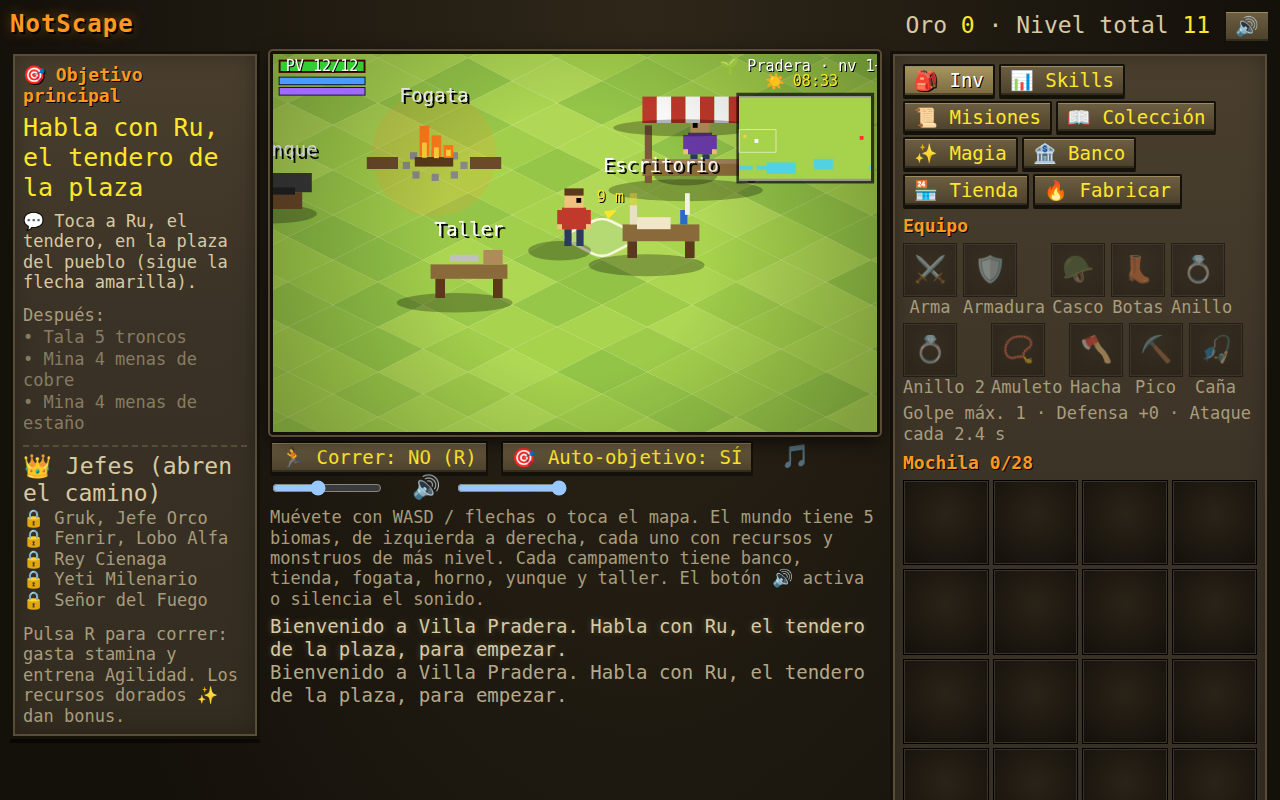
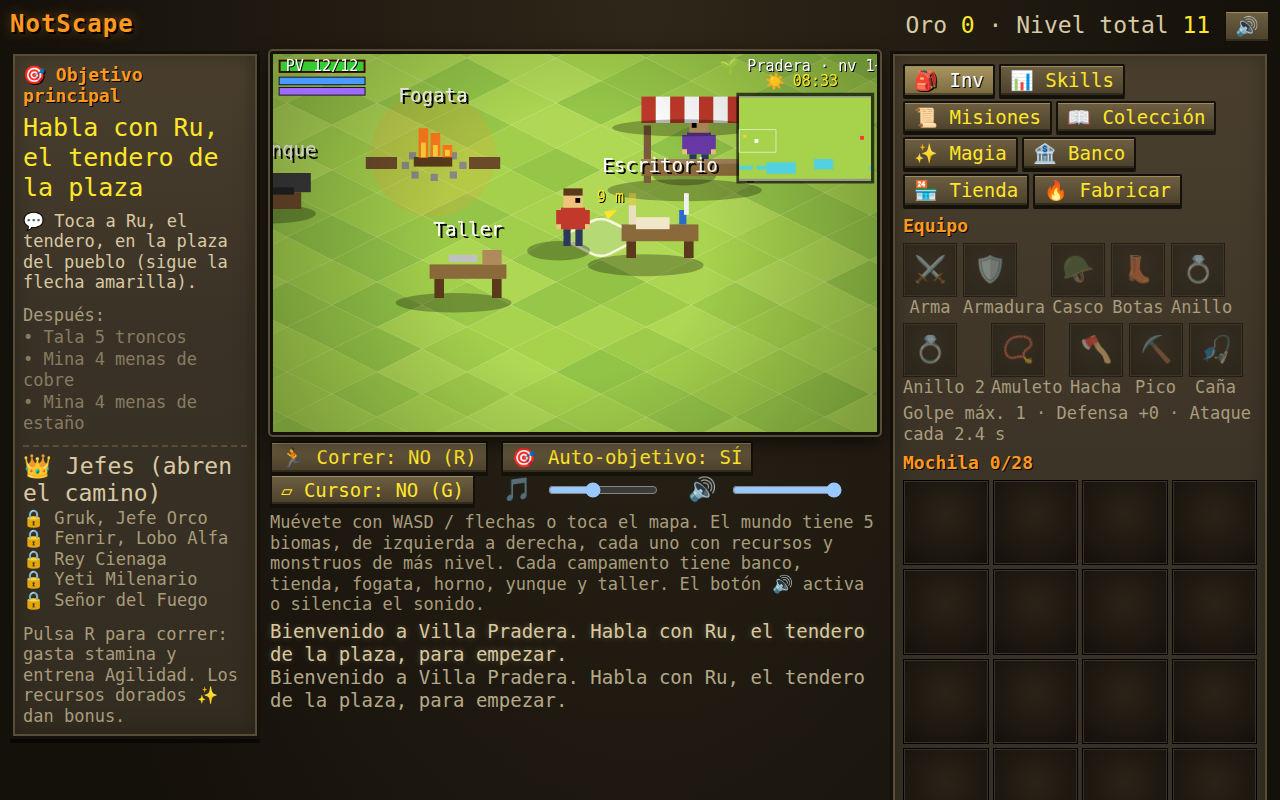
UPDATE 0.3b cambio a cámara isometrica

diff --git a/src/game.js b/src/game.js
@@ -494,7 +494,7 @@ const cv=$('#c');let ctx=cv.getContext('2d');const W=640,H=400; // W,H = unidade
 const GR=null,RD=null,WT=null,VG=null,SX=null,CH=null,SP=null; // TEMPORAL: módulos cenitales borrados; las ramas antiguas de sprites siguen vivas hasta F3–F5 (ver AGENTS.md)
 const lc=document.createElement('canvas');lc.width=W;lc.height=H;const lx=lc.getContext('2d'),DAYLEN=360,dayP=t=>(t/DAYLEN+.33)%1,sunS=t=>Math.sin(2*Math.PI*(dayP(t)-.25));
 let SHD={dx:0,dy:2,a:.26};
-function Sd(x,y,w,h){if(BAKE){BAKE.sh.push([x-BAKE.ax,y-BAKE.ay,w,h]);return}const q=SHD;if(q.a<.02)return;ctx.save();ctx.globalAlpha=q.a;ctx.fillStyle='#000';ctx.beginPath();ctx.ellipse(Math.round(x+w/2+q.dx/2),Math.round(y+h/2+q.dy/2),w/2+Math.abs(q.dx)/2,h/2+Math.abs(q.dy)/2+1,0,0,7);ctx.fill();ctx.restore()}
+function Sd(x,y,w,h){if(SIL)return;if(BAKE){BAKE.sh.push([x-BAKE.ax,y-BAKE.ay,w,h]);return}const q=SHD;if(q.a<.02)return;ctx.save();ctx.globalAlpha=q.a;ctx.fillStyle='#000';ctx.beginPath();ctx.ellipse(Math.round(x+w/2+q.dx/2),Math.round(y+h/2+q.dy/2),w/2+Math.abs(q.dx)/2,h/2+Math.abs(q.dy)/2+1,0,0,7);ctx.fill();ctx.restore()}
 const Rc=(c,x,y,w,h)=>{ctx.fillStyle=c;ctx.fillRect(Math.round(x),Math.round(y),w,h)};
 // ---- Fase 3: panadería de sprites (ver src/sprites.js y AGENTS.md). BAKE = {ax,ay,sh} mientras fn() se ejecuta contra un canvas de caché:
 // Sd NO pinta (la sombra depende del sol y se dibuja en vivo cada frame con las posiciones que Sd anotó en BAKE.sh).
@@ -505,7 +505,7 @@ function bk(key,x,y,w,h,ax,ay,fn){const s=SP.get(key,w,h,ax,ay,g=>{const r=ctx,b
  for(const q of s.r.sh)Sd(rx+q[0],ry+q[1],q[2],q[3]);ctx.drawImage(s.c,rx-s.ax,ry-s.ay);return s.r.v}
 
 let TXS=1; // corrección del tamaño del texto dentro de spr() (los sprites se escalan SPR veces)
-const T=(s,x,y,c)=>{ctx.font=(16*TXS)+'px VT323, monospace';ctx.textAlign='center';ctx.fillStyle='#000';ctx.fillText(s,x+1,y+1);ctx.fillStyle=c;ctx.fillText(s,x,y)};
+const T=(s,x,y,c)=>{if(SIL)return;ctx.font=(16*TXS)+'px VT323, monospace';ctx.textAlign='center';ctx.fillStyle='#000';ctx.fillText(s,x+1,y+1);ctx.fillStyle=c;ctx.fillText(s,x,y)};
 // T con caché para etiquetas que casi nunca cambian (nombre de estación, nivel de monstruo). NO usar con texto que cambia cada frame (se llenaría la caché).
 const TC=(s,x,y,c)=>{if(!SP)return T(s,x,y,c);const w=Math.max(24,s.length*10+8);bk('t|'+c+'|'+s,x,y,w,20,w>>1,15,(X,Y)=>T(s,X,Y,c))};
 const QW=Math.PI/8; // la fase de paso se cuantiza a 16 fotogramas por ciclo (≈30 ms cada uno a 12 rad/s): indistinguible a ojo y deja la caché en 16+2 sprites por equipo
@@ -606,17 +606,55 @@ function lighting(now){const t=now/1000,s=sunS(t),d=Math.max(WXD,Math.max(0,Math
 let LFT=0;
 const SPR=1.5; // px lógicos por px de sprite cenital antiguo (marcadores provisionales hasta F4/F5)
 // Dibuja un sprite cenital antiguo con los pies en la posición isométrica de (x,y); lift = px de sprite hacia arriba
-function spr(x,y,lift,fn){const p=ISO.toCanvas(x,y,TER.heightAt(x,y)),k=SPR*ISO.scale();ctx.setTransform(k,0,0,k,p.x-x*k,p.y-(y+lift)*k);TXS=.5;try{fn()}finally{TXS=1}}
+let SIL=0,SPX=0,SPY=0; // SIL: dibujando la silueta del contorno (sin texto ni sombra); SPX/SPY: desplazamiento de spr() hacia el lienzo pequeño
+function spr(x,y,lift,fn){const p=ISO.toCanvas(x,y,TER.heightAt(x,y)),k=SPR*ISO.scale();ctx.setTransform(k,0,0,k,p.x-SPX-x*k,p.y-SPY-(y+lift)*k);TXS=.5;try{fn()}finally{TXS=1}}
 const onScr=(x,y)=>{const p=ISO.toCanvas(x,y,1);return p.x>-140&&p.x<ISO.V.cw+140&&p.y>-200&&p.y<ISO.V.ch+140};
 function fitCv(){const w=cv.clientWidth||640;ISO.resize(w,Math.round(w*H/W),window.devicePixelRatio||1);if(cv.width!==ISO.V.cw||cv.height!==ISO.V.ch){cv.width=ISO.V.cw;cv.height=ISO.V.ch}}
 fitCv();addEventListener('resize',fitCv);if(window.ResizeObserver)new ResizeObserver(fitCv).observe($('#cw'));
 // ---- F1-C1 · cursor de tile: rombo suave bajo el puntero (solo ratón). No toca lógica ni colisiones. ----
 const CUR={px:0,py:0,on:0,tx:-1,ty:-1};
+let CURON=0;try{CURON=+localStorage.getItem('ns_cursor')||0}catch(e){} // preferencia propia, fuera del guardado (tdo2)
+const curBtn=()=>{const b=$('#curb');if(b)b.textContent='▱ Cursor: '+(CURON?'SÍ':'NO')+' (G)'},tgCur=()=>{CURON=CURON?0:1;try{localStorage.setItem('ns_cursor',CURON)}catch(e){}curBtn()};curBtn();
 cv.addEventListener('pointermove',ev=>{if(ev.pointerType==='touch')return;const r=cv.getBoundingClientRect();CUR.px=(ev.clientX-r.left)*cv.width/r.width;CUR.py=(ev.clientY-r.top)*cv.height/r.height;CUR.on=1});
-cv.addEventListener('pointerleave',()=>{CUR.on=0});
+cv.addEventListener('pointerleave',()=>{CUR.on=0;cv.style.cursor=''});
 // Único sitio que define la forma del cursor: las formas finales se deciden con el dueño (AGENTS.md), aquí solo esquinas suavizadas.
 function soft(pts,k){const n=pts.length;ctx.beginPath();for(let i=0;i<n;i++){const a=pts[(i+n-1)%n],b=pts[i],c=pts[(i+1)%n],p1={x:b.x+(a.x-b.x)*k,y:b.y+(a.y-b.y)*k},p2={x:b.x+(c.x-b.x)*k,y:b.y+(c.y-b.y)*k};if(i)ctx.lineTo(p1.x,p1.y);else ctx.moveTo(p1.x,p1.y);ctx.quadraticCurveTo(b.x,b.y,p2.x,p2.y)}ctx.closePath()}
-function dCur(t){CUR.tx=CUR.ty=-1;if(!CUR.on||CK)return;
+// Entidad bajo el puntero (px reales del canvas). La usan el clic y el resaltado, así que lo que se ilumina es lo que se clica.
+function pickEnt(px,py,now){const sc=ISO.scale(),k=SPR*sc;let b=null,bd=34;[...N,...ST,...M].forEach(e=>{if(!alive(e,now))return;const q=ISO.toCanvas(e.x,e.y,TER.heightAt(e.x,e.y)),d=Math.hypot(px-q.x,py-(q.y-10*k))/sc-(e.id?18:0);if(d<bd){bd=d;b=e}});return b}
+// Contorno de la entidad bajo el puntero (F1-C3): se dibuja la entidad UNA vez en un lienzo pequeño, se tiñe como silueta y se estampa
+// desplazada en 8 direcciones (borde oscuro + borde claro) justo antes de su sprite. Solo cuesta algo mientras hay una entidad resaltada.
+// Funciona con cualquier sprite (rectángulos, arcos…), también con los definitivos de F3–F5. No usa ctx.filter ni copia el canvas principal.
+const HLC=document.createElement('canvas'),HLX=HLC.getContext('2d'),HLD=document.createElement('canvas'),HLY=HLD.getContext('2d');let HOV=null;
+const HL8=[[1,0],[-1,0],[0,1],[0,-1],[.7,.7],[-.7,.7],[.7,-.7],[-.7,-.7]];
+function hovUpdate(){HOV=null;CUR.hov=null;if(!CUR.on||CK){cv.style.cursor='';return}HOV=pickEnt(CUR.px,CUR.py,performance.now());CUR.hov=HOV;cv.style.cursor=HOV?'pointer':''}
+function hl(e,fn,t){if(e!==HOV)return;const sv=ctx,s=ISO.scale(),w=Math.ceil(300*s),h=Math.ceil(340*s),ax=Math.round(w/2),ay=Math.round(h-50*s),p=ISO.toCanvas(e.x,e.y,TER.heightAt(e.x,e.y));
+ if(HLC.width!==w||HLC.height!==h){HLC.width=HLD.width=w;HLC.height=HLD.height=h}
+ HLX.setTransform(1,0,0,1,0,0);HLX.globalCompositeOperation='source-over';HLX.globalAlpha=1;HLX.clearRect(0,0,w,h);
+ ctx=HLX;SIL=1;SPX=p.x-ax;SPY=p.y-ay;try{spr(e.x,e.y,0,fn)}finally{ctx=sv;SIL=0;SPX=SPY=0}
+ HLX.setTransform(1,0,0,1,0,0);HLX.globalAlpha=1;HLY.setTransform(1,0,0,1,0,0);HLY.globalCompositeOperation='source-over';HLY.clearRect(0,0,w,h);HLY.drawImage(HLC,0,0);
+ HLY.globalCompositeOperation='source-in';HLY.fillStyle='#5b3a29';HLY.fillRect(0,0,w,h);HLX.globalCompositeOperation='source-in';HLX.fillStyle='#fdf9e3';HLX.fillRect(0,0,w,h);HLX.globalCompositeOperation='source-over';
+ const r1=Math.max(2,1.7*s),r2=r1+Math.max(1.5,1.1*s),pul=.88+.12*Math.sin(t*6);
+ ctx.setTransform(1,0,0,1,0,0);ctx.save();ctx.imageSmoothingEnabled=false;
+ for(const o of HL8)ctx.drawImage(HLD,Math.round(p.x-ax+o[0]*r2),Math.round(p.y-ay+o[1]*r2));
+ ctx.globalAlpha=pul;for(const o of HL8)ctx.drawImage(HLC,Math.round(p.x-ax+o[0]*r1),Math.round(p.y-ay+o[1]*r1));ctx.restore()}
+// ---- F1-C3 · oclusión: un objeto alto (recurso o estación) que está DELANTE del jugador y le tapa se dibuja al 50 % con transición suave. ----
+// Cómo: si el objeto es candidato (delante en profundidad y cerca en pantalla) se renderiza en un lienzo pequeño (OCC), se mira cuántos píxeles
+// opacos caen sobre el rectángulo del jugador (4 % o más = tapa) y se estampa con alpha animado (e._oa, 0.5–1). Los demás objetos se dibujan
+// directos con spr() como siempre. Es por píxeles, no por cajas: la copa de un árbol tapa, el hueco entre ramas no. No usa ctx.filter.
+// Los monstruos NO se atenúan. Si algún día hace falta, basta llamar a occ() también para ellos en draw().
+const OCC=document.createElement('canvas'),OCX=OCC.getContext('2d',{willReadFrequently:true});let OCDT=1/60;
+function occ(e,fn){const s=ISO.scale(),k=SPR*s,p=ISO.toCanvas(e.x,e.y,TER.heightAt(e.x,e.y)),pf=ISO.toCanvas(P.x,P.y,TER.heightAt(P.x,P.y)),dy=p.y-pf.y,
+  cand=ISO.depth(e.x,e.y)>ISO.depth(P.x,P.y)&&dy>-8*k&&dy<70*k&&Math.abs(p.x-pf.x)<40*k;let cur=e._oa==null?1:e._oa;
+ if(!cand&&cur>=1){spr(e.x,e.y,0,fn);return}
+ const w=Math.ceil(300*s),h=Math.ceil(340*s),ax=Math.round(w/2),ay=Math.round(h-50*s),sv=ctx;
+ if(OCC.width!==w||OCC.height!==h){OCC.width=w;OCC.height=h}
+ OCX.setTransform(1,0,0,1,0,0);OCX.globalAlpha=1;OCX.clearRect(0,0,w,h);ctx=OCX;SPX=p.x-ax;SPY=p.y-ay;try{spr(e.x,e.y,0,fn)}finally{ctx=sv;SPX=SPY=0}
+ let tgt=1;
+ if(cand){const px=ax+(pf.x-p.x),py=ay+(pf.y-p.y),x0=Math.max(0,Math.floor(px-8*k)),x1=Math.min(w,Math.ceil(px+8*k)),y0=Math.max(0,Math.floor(py-34*k)),y1=Math.min(h,Math.ceil(py-3*k));
+  if(x1>x0&&y1>y0){const d=OCX.getImageData(x0,y0,x1-x0,y1-y0).data;let n=0;for(let i=3;i<d.length;i+=4)if(d[i]>100)n++;tgt=n>(x1-x0)*(y1-y0)*.04?.5:1}}
+ cur+=(tgt-cur)*(1-Math.exp(-OCDT*14));if(Math.abs(cur-tgt)<.02)cur=tgt;e._oa=cur;
+ ctx.setTransform(1,0,0,1,0,0);ctx.save();ctx.globalAlpha=cur;ctx.imageSmoothingEnabled=false;ctx.drawImage(OCC,p.x-ax,p.y-ay);ctx.restore()}
+function dCur(t){CUR.tx=CUR.ty=-1;if(!CURON||!CUR.on||CK)return;
  const w=ISO.toWorld(CUR.px,CUR.py,TER.heightAt),q=ISO.tileAt(w.x,w.y);if(q.tx<0||q.ty<0||q.tx>=TER.NX||q.ty>=TER.NY)return;
  CUR.tx=q.tx;CUR.ty=q.ty;const h=TER.tileH(q.tx,q.ty),d=ISO.diamond(q.tx,q.ty,h),no=blk((q.tx+.5)*ISO.TILE,(q.ty+.5)*ISO.TILE),s=ISO.scale(),pul=.5+.5*Math.sin(t*5),cxx=(d[0].x+d[2].x)/2,cyy=(d[0].y+d[2].y)/2,
   sh=d.map(p=>({x:cxx+(p.x-cxx)*.92,y:cyy+(p.y-cyy)*.92})); // un poco más pequeño que el tile
@@ -625,11 +663,11 @@ function dCur(t){CUR.tx=CUR.ty=-1;if(!CUR.on||CK)return;
  ctx.lineWidth=Math.max(1,1.6*s);ctx.strokeStyle=no?'rgba(91,58,41,.85)':'rgba(253,249,227,.95)';ctx.stroke();ctx.restore()}
 function draw(now){const t=now/1000;cx=Math.max(0,Math.min(WW-W,P.x-W/2))|0;cy=Math.max(0,Math.min(WH-H,P.y-H/2))|0;
  {const s0=sunS(t),ph0=2*Math.PI*(dayP(t)-.25),d0=Math.max(0,s0);SHD.dx=-Math.cos(ph0)*(8+20*(1-d0));SHD.dy=2+3*(1-d0);SHD.a=Math.max(0,Math.min(.28,(s0+.15)*.5))}
- const dt=LFT?Math.min(.1,(now-LFT)/1000):1/60,sk=now<SHK?(SHK-now)/200*3:0;if(LFT)ISO.follow(P.x,P.y,TER.heightAt(P.x,P.y),dt);else ISO.snap(P.x,P.y,TER.heightAt(P.x,P.y));LFT=now;
+ const dt=LFT?Math.min(.1,(now-LFT)/1000):1/60,sk=now<SHK?(SHK-now)/200*3:0;if(LFT)ISO.follow(P.x,P.y,TER.heightAt(P.x,P.y),dt);else ISO.snap(P.x,P.y,TER.heightAt(P.x,P.y));LFT=now;OCDT=dt;
  ctx.setTransform(1,0,0,1,0,0);ctx.imageSmoothingEnabled=true;ctx.fillStyle=TER.PAPER;ctx.fillRect(0,0,cv.width,cv.height);
  if(sk)ISO.cam.x+=(Math.random()-.5)*2*sk,ISO.cam.y+=(Math.random()-.5)*2*sk;
- TER.draw(ctx,t);dCur(t);
- const ents=[...N.filter(e=>onScr(e.x,e.y)).map(e=>[ISO.depth(e.x,e.y),()=>spr(e.x,e.y,0,()=>dN(e,t,now))]),...ST.filter(e=>onScr(e.x,e.y)).map(e=>[ISO.depth(e.x,e.y),()=>spr(e.x,e.y,0,()=>dS(e,t))]),...M.filter(e=>onScr(e.x,e.y)).map(e=>[ISO.depth(e.x,e.y),()=>spr(e.x,e.y,0,()=>dM(e,t,now))]),[ISO.depth(P.x,P.y),()=>spr(P.x,P.y,0,()=>dP(t,now))]];
+ TER.draw(ctx,t);dCur(t);hovUpdate();
+ const ents=[...N.filter(e=>onScr(e.x,e.y)).map(e=>[ISO.depth(e.x,e.y),()=>{hl(e,()=>dN(e,t,now),t);occ(e,()=>dN(e,t,now))}]),...ST.filter(e=>onScr(e.x,e.y)).map(e=>[ISO.depth(e.x,e.y),()=>{hl(e,()=>dS(e,t),t);occ(e,()=>dS(e,t))}]),...M.filter(e=>onScr(e.x,e.y)).map(e=>[ISO.depth(e.x,e.y),()=>{hl(e,()=>dM(e,t,now),t);spr(e.x,e.y,0,()=>dM(e,t,now))}]),[ISO.depth(P.x,P.y),()=>spr(P.x,P.y,0,()=>dP(t,now))]];
  for(let k=1;k<5;k++)if(onScr(k*BW,769))ents.push([ISO.depth(k*BW,826),()=>{ctx.setTransform(1,0,0,1,0,0);TER.gate(ctx,k,!!S.boss[k-1],t)}]);
  ents.sort((a,b)=>a[0]-b[0]).forEach(o=>o[1]());
  PJ.forEach(p=>{const u=Math.min(1,(now-p.t0)/(p.t1-p.t0)),x=p.x+(p.tx-p.x)*u,y=p.y+(p.ty-p.y)*u;spr(x,y,10+Math.sin(u*Math.PI)*8,()=>{if(p.wt==='r'){const an=Math.atan2(p.ty-p.y,p.tx-p.x);ctx.strokeStyle='#d8c9a3';ctx.lineWidth=2;ctx.beginPath();ctx.moveTo(x-Math.cos(an)*8,y-Math.sin(an)*8);ctx.lineTo(x+Math.cos(an)*4,y+Math.sin(an)*4);ctx.stroke()}else{ctx.globalAlpha=.8;ctx.fillStyle=p.col||ORB[tierOf(S.eq.w||'st_pino')]||'#9cf';ctx.beginPath();ctx.arc(x,y,4,0,7);ctx.fill();ctx.globalAlpha=1}})});
@@ -648,10 +686,10 @@ Rc('#400',6,6,92,14);Rc(P.hp/maxHp()>.3?'#3c3':'#e33',8,8,88*Math.max(0,P.hp)/ma
  if(A){let p,lb;if(A.ty==='f'){const m=A.e;p=m.hp/m.mh;lb=m.d.n+' nv.'+m.lv+' '+Math.max(0,m.hp)+'/'+m.mh}else{p=Math.min(1,A.pr||0);lb=actLabel()}
   Rc('#000',W/2-100,H-26,200,16);Rc(A.ty==='f'?'#a33':'#c8861a',W/2-98,H-24,196*p,12);T(lb,W/2,H-13,'#fff')}}
 cv.addEventListener('pointerdown',ev=>{if(CK){cookHit();return}const r=cv.getBoundingClientRect(),px=(ev.clientX-r.left)*cv.width/r.width,py=(ev.clientY-r.top)*cv.height/r.height,now=performance.now(),sc=ISO.scale(),k=SPR*sc;
- let b=null,bd=34;[...N,...ST,...M].forEach(e=>{if(!alive(e,now))return;const q=ISO.toCanvas(e.x,e.y,TER.heightAt(e.x,e.y)),d=Math.hypot(px-q.x,py-(q.y-10*k))/sc-(e.id?18:0);if(d<bd){bd=d;b=e}});
+ const b=pickEnt(px,py,now);
  if(A)stopA();if(b){P.g={e:b};P.mv=null}else{const w=ISO.toWorld(px,py,TER.heightAt);P.mv={x:w.x,y:w.y};P.g=null}});
 const KM={ArrowLeft:'l',a:'l',ArrowRight:'r',d:'r',ArrowUp:'u',w:'u',ArrowDown:'d',s:'d'};
-addEventListener('keydown',e=>{const k=KM[e.key];if(k){K[k]=1;e.preventDefault()}if(e.key==='r'||e.key==='R')tgRun();if(e.key==='m'||e.key==='M')MM=!MM;if((e.key===' '||e.key==='Enter')&&CK){cookHit();e.preventDefault()}if(e.key==='Escape')CK=null});addEventListener('keyup',e=>{const k=KM[e.key];if(k)K[k]=0});
+addEventListener('keydown',e=>{const k=KM[e.key];if(k){K[k]=1;e.preventDefault()}if(e.key==='r'||e.key==='R')tgRun();if(e.key==='m'||e.key==='M')MM=!MM;if(e.key==='g'||e.key==='G')tgCur();if((e.key===' '||e.key==='Enter')&&CK){cookHit();e.preventDefault()}if(e.key==='Escape')CK=null});addEventListener('keyup',e=>{const k=KM[e.key];if(k)K[k]=0});
 addEventListener('pointerdown',()=>pd=1);addEventListener('pointerup',()=>setTimeout(()=>pd=0,60));
 let hid=0;document.addEventListener('visibilitychange',()=>{if(document.hidden)hid=Date.now();else if(A&&A.ty!=='f'&&Date.now()-hid>5000){offline(Date.now()-hid,A.sk,A.i);A.t0=performance.now()}});
 

diff --git a/index.html b/index.html
@@ -8,7 +8,7 @@
 <div class="top"><h1>NotScape</h1><div id="hd"></div></div>
 <div class="game">
 <div class="panel" id="goalp"><h2>🎯 Objetivo principal</h2><div id="goals"></div></div><div><div id="cw"><canvas id="c" width="640" height="400"></canvas><div id="dlg" onclick="dlgNext()"></div></div>
-<div style="margin:6px 0"><button class="bt" id="runb" onclick="tgRun()">🏃 Correr: NO (R)</button> <button class="bt" id="autob" onclick="tgAuto()" title="Al matar un enemigo, ir solo al siguiente. Con enemigos agresivos solo lo hace si no arrastra a otros.">🎯 Auto-objetivo: SÍ</button> <label class="sl" title="Volumen de la música">🎵 <input type="range" id="mv" min="0" max="100"></label> <label class="sl" title="Volumen de los efectos">🔊 <input type="range" id="sv" min="0" max="100"></label></div><div class="hint">Muévete con WASD / flechas o toca el mapa. El mundo tiene 5 biomas, de izquierda a derecha, cada uno con recursos y monstruos de más nivel. Cada campamento tiene banco, tienda, fogata, horno, yunque y taller. El botón 🔊 activa o silencia el sonido.</div>
+<div style="margin:6px 0"><button class="bt" id="runb" onclick="tgRun()">🏃 Correr: NO (R)</button> <button class="bt" id="autob" onclick="tgAuto()" title="Al matar un enemigo, ir solo al siguiente. Con enemigos agresivos solo lo hace si no arrastra a otros.">🎯 Auto-objetivo: SÍ</button> <button class="bt" id="curb" onclick="tgCur()" title="Muestra un rombo en el tile bajo el puntero (tecla G)">▱ Cursor: NO (G)</button> <label class="sl" title="Volumen de la música">🎵 <input type="range" id="mv" min="0" max="100"></label> <label class="sl" title="Volumen de los efectos">🔊 <input type="range" id="sv" min="0" max="100"></label></div><div class="hint">Muévete con WASD / flechas o toca el mapa. El mundo tiene 5 biomas, de izquierda a derecha, cada uno con recursos y monstruos de más nivel. Cada campamento tiene banco, tienda, fogata, horno, yunque y taller. El botón 🔊 activa o silencia el sonido.</div>
 <div id="log"></div></div>
 <div class="panel"><div id="tabs">
 <button class="bt" data-t="inv" onclick="tab('inv')">🎒 Inv</button><button class="bt" data-t="sk" onclick="tab('sk')">📊 Skills</button><button class="bt" data-t="q" onclick="tab('q')">📜 Misiones</button><button class="bt" data-t="col" onclick="tab('col')">📖 Colección</button><button class="bt" data-t="mg" onclick="tab('mg')">✨ Magia</button><button class="bt" data-t="bank" onclick="tab('bank')">🏦 Banco</button><button class="bt" data-t="shop" onclick="tab('shop')">🏪 Tienda</button><button class="bt" data-t="st" onclick="tab('st')">🔥 Fabricar</button>

diff --git a/tools/iso_check.py b/tools/iso_check.py
@@ -32,6 +32,7 @@ try:
         # rendimiento: ms por frame de draw()
         t = pg.evaluate('''()=>{const a=performance.now();for(let i=0;i<60;i++)draw(performance.now());return (performance.now()-a)/60}''')
         print('draw() ms/frame (software, solo para comparar): %.1f' % t)
+        pg.evaluate('CURON=1')
         # F1-C1 · cursor de tile: con el ratón sobre el canvas, el tile resaltado debe ser el que hay bajo el puntero; fuera, ninguno
         pg.evaluate('P.x=300;P.y=800;P.mv=null;P.g=null'); pg.wait_for_timeout(500)
         bb = pg.evaluate('(()=>{const r=cv.getBoundingClientRect();return [r.left,r.top,r.width,r.height]})()')
@@ -44,11 +45,51 @@ try:
         pg.mouse.move(bb[0] + bb[2] * .5, bb[1] + bb[3] * .5); pg.wait_for_timeout(200)
         pg.screenshot(path=os.path.join(out, '06_cursor.png'))
         pg.mouse.move(5, 5); pg.wait_for_timeout(200)
+        pg.evaluate('CURON=0'); pg.mouse.move(bb[0] + bb[2] * .5, bb[1] + bb[3] * .5); pg.wait_for_timeout(200)
+        if pg.evaluate('CUR.tx') != -1: fails.append('cursor: se dibuja con el interruptor apagado')
+        pg.evaluate('CURON=1'); pg.mouse.move(5, 5); pg.wait_for_timeout(100)
         if pg.evaluate('CUR.tx') != -1: fails.append('cursor: sigue visible con el ratón fuera del canvas')
         # cursor sobre agua (no transitable): captura aparte
         pg.evaluate('P.x=700;P.y=1000;P.mv=null;P.g=null'); pg.wait_for_timeout(500)
         pg.mouse.move(bb[0] + bb[2] * .5, bb[1] + bb[3] * .5); pg.wait_for_timeout(200)
         pg.screenshot(path=os.path.join(out, '07_cursor_agua.png'))
+        # F1-C2 · resalte de entidad: el ratón sobre una entidad debe resaltarla (y el clic usa la misma selección)
+        pg.evaluate('P.x=200;P.y=750;P.mv=null;P.g=null'); pg.wait_for_timeout(500)
+        info = pg.evaluate('(()=>{const e=ST[0],k=SPR*ISO.scale(),q=ISO.toCanvas(e.x,e.y,TER.heightAt(e.x,e.y)),r=cv.getBoundingClientRect();return {id:e.id,x:r.left+q.x*r.width/cv.width,y:r.top+(q.y-10*k)*r.height/cv.height,on:onScr(e.x,e.y)}})()')
+        if not info['on']: pg.evaluate('(()=>{const e=ST[0];P.x=e.x-60;P.y=e.y+10})()'); pg.wait_for_timeout(600); info = pg.evaluate('(()=>{const e=ST[0],k=SPR*ISO.scale(),q=ISO.toCanvas(e.x,e.y,TER.heightAt(e.x,e.y)),r=cv.getBoundingClientRect();return {id:e.id,x:r.left+q.x*r.width/cv.width,y:r.top+(q.y-10*k)*r.height/cv.height,on:onScr(e.x,e.y)}})()')
+        pg.mouse.move(info['x'], info['y']); pg.wait_for_timeout(250)
+        h = pg.evaluate('CUR.hov&&CUR.hov===ST[0]')
+        if not h: fails.append('resalte: la entidad bajo el puntero no se resalta')
+        pg.screenshot(path=os.path.join(out, '08_resalte_entidad.png'))
+        px_sil = pg.evaluate('(()=>{const d=HLC.getContext("2d").getImageData(0,0,HLC.width,HLC.height).data;let n=0;for(let i=3;i<d.length;i+=4)if(d[i]>0)n++;return n})()')
+        if px_sil < 50: fails.append(f'contorno: la silueta casi no tiene píxeles ({px_sil})')
+        # el contorno debe funcionar con los tres tipos de entidad: recurso (N), monstruo (M) y estación (ST)
+        for nombre, lst, idx in [('09_contorno_recurso', 'N', 0), ('10_contorno_monstruo', 'M', 0), ('11_contorno_estacion', 'ST', 3)]:
+            ok = pg.evaluate(f'(()=>{{const l={lst}.filter(e=>alive(e,performance.now())&&e.x<2200),e=l[{idx}%l.length];if(!e)return false;window.__e=e;P.x=e.x-70;P.y=e.y+40;P.mv=null;P.g=null;return true}})()')
+            if not ok: continue
+            pg.wait_for_timeout(700)
+            q = pg.evaluate('(()=>{const e=window.__e,k=SPR*ISO.scale(),q=ISO.toCanvas(e.x,e.y,TER.heightAt(e.x,e.y)),r=cv.getBoundingClientRect();return [r.left+q.x*r.width/cv.width,r.top+(q.y-10*k)*r.height/cv.height]})()')
+            pg.mouse.move(q[0], q[1]); pg.wait_for_timeout(250)
+            if not pg.evaluate('CUR.hov===window.__e'): fails.append(f'contorno: {lst} no se resalta')
+            pg.screenshot(path=os.path.join(out, nombre + '.png'))
+        pg.mouse.move(bb[0] + bb[2] * .5, bb[1] + bb[3] * .1); pg.wait_for_timeout(200)
+        pg.mouse.move(5, 5); pg.wait_for_timeout(200)
+        if pg.evaluate('CUR.hov') is not None and pg.evaluate('CUR.on'): fails.append('resalte: queda activo con el ratón fuera')
+        # F1-C3 · oclusión: un árbol DELANTE del jugador que le tapa debe atenuarse (~0,5); si el jugador está delante o lejos, no
+        pg.mouse.move(5, 5)
+        o = pg.evaluate('(()=>{const e=N.filter(n=>n.t==="wc"&&alive(n,performance.now())&&n.x<2200)[0];window.__t=e;return [e.x,e.y]})()')
+        def pon(dx, dy, ms=900):
+            pg.evaluate(f'(()=>{{const e=window.__t;P.x=e.x+({dx});P.y=e.y+({dy});P.mv=null;P.g=null}})()'); pg.wait_for_timeout(ms)
+            return pg.evaluate('window.__t._oa==null?1:window.__t._oa')
+        a_det = pon(-10, -10); pg.screenshot(path=os.path.join(out, '12_oclusion_detras.png'))
+        a_del = pon(30, 30); pg.screenshot(path=os.path.join(out, '13_oclusion_delante.png'))
+        a_lej = pon(-200, 0)
+        a_det2 = pon(-10, -10)
+        print('oclusión (alpha del árbol): detrás=%.2f delante=%.2f lejos=%.2f otra vez detrás=%.2f' % (a_det, a_del, a_lej, a_det2))
+        if not a_det < .7: fails.append(f'oclusión: el árbol no se atenúa con el jugador detrás ({a_det:.2f})')
+        if not a_del > .95: fails.append(f'oclusión: el árbol se atenúa con el jugador delante ({a_del:.2f})')
+        if not a_lej > .95: fails.append(f'oclusión: el árbol se atenúa con el jugador lejos ({a_lej:.2f})')
+        if not a_det2 < .7: fails.append('oclusión: no vuelve a atenuarse')
         b.close()
 finally:
     srv.terminate()

diff --git a/AGENTS.md b/AGENTS.md
@@ -72,9 +72,12 @@ Cada bioma es **único**: aldea propia con arquitectura de su región, distribuc
   - [x] **F1-B** — HECHO: módulos cenitales y `?old` borrados; canvas responsivo (`fitCv` + `ISO.resize`); terreno de rombos planos con 3 alturas (`TER`); entidades antiguas como marcadores en su posición isométrica (`spr`); teclas con `ISO.keyDir`; clics con `ISO.toWorld`; `tools/iso_check.py`. *Pendiente de que el dueño lo pruebe a mano.*
   - [~] **F1-C** — en micro-pasos (un entregable por mensaje):
     - [x] **F1-C1** — cursor de tile (rombo suave bajo el puntero, rojo si `blk()` bloquea ese tile). HECHO; *pendiente de que el dueño lo pruebe a mano.*
-    - [ ] **F1-C2** — oclusión al 50 % de objetos altos sobre el jugador (`ISO.occludes`).
-    - [ ] **F1-C3** — comprobar a mano escenas junto a un acantilado (clics y altura).
-    - [ ] **F1-C4** — afinar cámara y zoom (`ISO.V.zoom`, `SPR`) con el dueño.
+    - [x] **F1-C1b** — el cursor de tile es **opcional** (botón «Cursor» y tecla G; preferencia en `localStorage` `ns_cursor`, fuera del guardado; por defecto apagado). Motivo (dueño, 11 oct): los recursos no están alineados a tiles y no le convence resaltar el tile; alinearlos se considera costoso. Idea pendiente: resaltar la **entidad** bajo el puntero en vez del tile.
+    - [x] **F1-C2** — resalte de la **entidad** bajo el puntero (decisión del dueño: mejor que resaltar el tile) + cursor `pointer`; siempre activo con ratón. `pickEnt()` es la selección compartida con el clic.
+    - [x] **F1-C2b** — el aro del suelo **no gustó**; ahora se resalta el **contorno de la forma** (silueta). *Pendiente de prueba a mano.*
+    - [x] **F1-C3** — oclusión al 50 % de objetos altos (recursos `N` y estaciones `ST`) que están delante del jugador y le tapan: `occ()` en `game.js`, por píxeles, con transición suave. *Pendiente de prueba a mano.*
+    - [ ] **F1-C4** — comprobar a mano escenas junto a un acantilado (clics y altura).
+    - [ ] **F1-C5** — afinar cámara y zoom (`ISO.V.zoom`, `SPR`) con el dueño.
   *Hecho cuando:* el jugador camina por el mapa de prueba, los clics caen en el tile correcto a cualquier altura y las colisiones se comportan igual.
 - [ ] **F2 · Estilo y terreno** — `STYLE`, `soft`, `paint`, `ink`, grano, tinte; bloque diorama de la Pradera con borde, sombra y pasarela; transiciones, caminos y agua. Puerta de aprobación con 3 capturas.
 - [ ] **F3 · Decoración, recursos, estructuras y barreras de jefe** (primero solo el portón del orco).
@@ -94,10 +97,21 @@ Cada bioma es **único**: aldea propia con arquitectura de su región, distribuc
 - Altura de un tile por su **centro**: junto al agua el jugador puede quedar 0,25 niveles más bajo hasta 16 px antes de la orilla real. Aceptado como provisional.
 
 ## Registro de cambios (más reciente arriba; el dueño pidió que todo quede aquí)
+- **11 oct 2026 · F1-C3 (oclusión).** Qué hace: un recurso o estación que está **delante** del jugador (`ISO.depth` mayor) y le tapa se dibuja al 50 % con transición suave; si no tapa, vuelve a 100 %. Cómo (`game.js`, función `occ(e,fn)`, antes de `dCur`):
+  1. En `draw()` los `N` y `ST` ya no llaman a `spr()` directo sino a `occ(e,()=>dN/dS(...))`. Los monstruos `M` **no** se atenúan (decisión mía, fácil de cambiar: llamar a `occ` también para ellos).
+  2. *Candidato* = más profundo que el jugador (`ISO.depth`) **y** cerca en pantalla: `-8k < dy < 70k` y `|dx| < 40k` (k = `SPR*ISO.scale()`; dy/dx entre los pies del objeto y los del jugador). Los no candidatos con `e._oa==1` se dibujan como siempre (coste cero).
+  3. El candidato se renderiza en un lienzo pequeño `OCC` (mismo tamaño que el del contorno: 300×340 px lógicos × escala, pies en `(w/2, h-50·escala)`) con `ctx` intercambiado y `SPX/SPY`, igual que `hl()`.
+  4. Se lee con `getImageData` el rectángulo del jugador (±8k de ancho, de −34k a −3k de alto desde sus pies) y se cuentan píxeles con alpha >100: **≥4 % del rectángulo → tapa** (objetivo alpha 0,5; si no, 1). Es por píxeles, no por cajas: la copa tapa, el hueco entre ramas no.
+  5. `e._oa` (alpha actual, solo en memoria; no se guarda) se acerca al objetivo con `1-exp(-dt·14)` (`OCDT` = dt del frame, fijado en `draw()`), y el lienzo se estampa con ese alpha sin suavizado (`imageSmoothingEnabled=false`, posición entera).
+  Ajustes rápidos: umbral `.04`, alpha `.5`, velocidad `14`, límites `70k/40k`. El texto/etiqueta de la estación también se atenúa (va dentro del sprite). El contorno de hover (`hl`) se dibuja antes y no se atenúa.
+  `tools/iso_check.py`: coloca al jugador detrás / delante / lejos de un árbol y exige alpha <0,7 / >0,95 / >0,95, y de nuevo <0,7 al volver; capturas `12_oclusion_detras.png`, `13_oclusion_delante.png`. **Verificado sin pantalla:** `detrás=0.50 delante=1.00 lejos=1.00`, 0 errores de consola, `RESULTADO: OK`. `draw()` sube de ≈1 ms a ≈3 ms (headless/software, solo comparativo; el lienzo extra solo se usa con candidatos cerca del jugador). **No verificado:** fluidez real, dpr 2, objetos muy altos (jefes, no atenuados) y que el 4 %/50 % se sienta bien; edificios grandes del futuro (F3) pueden necesitar ampliar `70k/40k`.
+- **11 oct 2026 · F1-C2b.** Contorno de la entidad bajo el puntero en lugar del aro. `game.js`: `hl(e,fn,t)` renderiza la entidad una vez en un lienzo pequeño (`HLC`/`HLD`, ~300×340 px lógicos × escala), la tiñe como silueta (`source-in`) y la estampa en 8 direcciones (borde oscuro `#5b3a29` + claro `#fdf9e3`, pulso suave) justo antes de su sprite, así respeta el orden de profundidad. `hovUpdate()` fija `HOV`/`CUR.hov`/cursor. Banderas `SIL` (texto `T()` y sombra `Sd()` no salen en la silueta) y `SPX/SPY` (desplazamiento de `spr()`). Sirve para cualquier sprite (rectángulos, arcos, los definitivos de F3–F5). Sin `ctx.filter` ni copiar el canvas principal; el coste solo existe mientras hay una entidad resaltada. `tools/iso_check.py`: silueta con píxeles y resalte de recurso (`N`), monstruo (`M`) y estación (`ST`), capturas `09`–`11`. **Verificado sin pantalla:** 0 errores, `RESULTADO: OK`, contorno visible en árbol, vaca y horno. **No verificado:** grosor/aspecto en tu pantalla y con dpr 2; entidades muy altas (jefes) que podrían salirse del lienzo pequeño.
+- **11 oct 2026 · F1-C2.** `game.js`: `pickEnt(px,py,now)` (extraída del clic, mismo comportamiento) y `dHov` (aro bajo la entidad, bajo los sprites, tamaño por `e.id`); `CUR.hov`. El clic ahora usa `pickEnt`. `tools/iso_check.py`: comprueba que el puntero sobre `ST[0]` lo resalta y guarda `08_resalte_entidad.png`. **Verificado sin pantalla:** 0 errores, `RESULTADO: OK`. **No verificado:** que el aro se lea bien con recursos reales (árboles, vetas) y monstruos; solo se capturó una estación.
+- **11 oct 2026 · F1-C1b.** Cursor de tile opcional: botón «Cursor» y tecla G, `localStorage` `ns_cursor`, apagado por defecto (los recursos no están alineados a tiles; alinearlos es costoso).
 - **11 oct 2026 · F1-C1.** `game.js`: nuevo cursor de tile (`CUR`, `dCur`, helper `soft` para las esquinas suavizadas; es el único sitio donde cambiar la forma). Se dibuja justo después de `TER.draw`, bajo las entidades; solo con ratón (no en táctil); rojo si `blk()` bloquea el centro del tile. No toca lógica, guardado ni colisiones. `tools/iso_check.py`: comprueba que el tile resaltado es el que hay bajo el puntero (3 posiciones), que desaparece al salir del canvas y guarda `06_cursor.png` y `07_cursor_agua.png`. **Verificado sin pantalla:** 0 errores de consola, `RESULTADO: OK`. **No verificado:** el aspecto del tinte rojo sobre tile bloqueado (la captura 07 no cae sobre agua) ni la fluidez.
 - **11 oct 2026 · F1-B.** (1) Borrados `ground/roads/water/village/sprites/stations/characters/phaser-world.js` y las herramientas `headless_check.py`/`sprites_check.py`. (2) `game.js`: eliminada la IIFE `bgc` (escenario cenital de 11500×1500, ~69 MB), `dDecor`, `dGates` y el dibujo antiguo del mundo; `draw()` ahora limpia con el papel `#fdf9e3`, sigue al jugador con `ISO.follow`, dibuja `TER.draw`, y entidades/proyectiles/partículas ordenados por `ISO.depth` con `spr()`; luego el HUD en unidades 640×400 con `setTransform(cv.width/W,…)`. (3) Canvas responsivo: `fitCv()` (CSS + `ResizeObserver`, dpr máx. 2), el atributo `width/height` ya no es fijo; CSS `image-rendering:auto`. (4) Entrada: teclas con `ISO.keyDir` (8 direcciones en ejes de pantalla); `P.f` (izquierda/derecha) ahora sale de la dirección en pantalla; clic con `ISO.toWorld(…, TER.heightAt)` y selección de entidades en espacio de pantalla. (5) `lighting()` convierte posiciones de luz a pantalla (`lp`, `LR`). (6) Flecha de objetivo con el ángulo de pantalla. (7) `mmk` y `post` simplificados. (8) Nuevo `src/world-iso.js` y `tools/iso_check.py`; `build_single.py` acepta guiones. **Verificado sin pantalla:** 0 errores de consola; `blk()` bloquea agua, acantilado y compuerta cerrada, deja libres puente, pasto y paso abierto; 200 clics aleatorios vuelven a su punto; la tecla arriba sube en pantalla; `draw()` ≈ 1 ms (headless, software). **No verificable desde el chat:** fluidez real y aspecto en tu pantalla. Colisiones y guardado **no se tocaron** (sin migración de partidas, por decisión del dueño).
 - **11 oct 2026 · F1-A.** Creado `src/iso.js` (núcleo isométrico) y `tools/iso_test.js`. Decisiones técnicas: tile 56×28 con 22 px por nivel; zoom 1,6 sobre tamaño CSS; dpr máx. 2; cámara con suavizado exponencial y redondeo al píxel real; `toWorld` prueba cada nivel de altura y elige el candidato más cercano a la cámara (resuelve clics junto a acantilados); `keyDir` mapea arriba de pantalla a (-1,-1) de mundo y normaliza en mundo (por la proyección 2:1, moverse en horizontal de pantalla se ve el doble de rápido que en vertical; es lo correcto en isométrico). Limitación conocida: un clic a <1 px de mundo del borde exacto de un escalón puede caer en el nivel contiguo. `game.js` **no se ha tocado** todavía.
 - **11 oct 2026 · F0.** Cancelado el plan de pixel art cenital con Phaser. Reescrito este `AGENTS.md`. Creado `INVENTARIO.md`. Copiados a `docs/` la guía isométrica y las dos demos de estilo.
 
 ## Estado
-- Siguiente: **F1-C2** (oclusión al 50 %). F1-C1 hecho, pendiente de prueba a mano. No empezar F2 sin visto bueno del dueño a las capturas de F1.
+- Siguiente: **F1-C4** (comprobar a mano escenas junto a un acantilado: clics y altura) y después **F1-C5** (afinar cámara y zoom con el dueño). F1-C1/C2/C2b/C3 hechos, pendientes de prueba a mano. No empezar F2 sin visto bueno del dueño a las capturas de F1.
